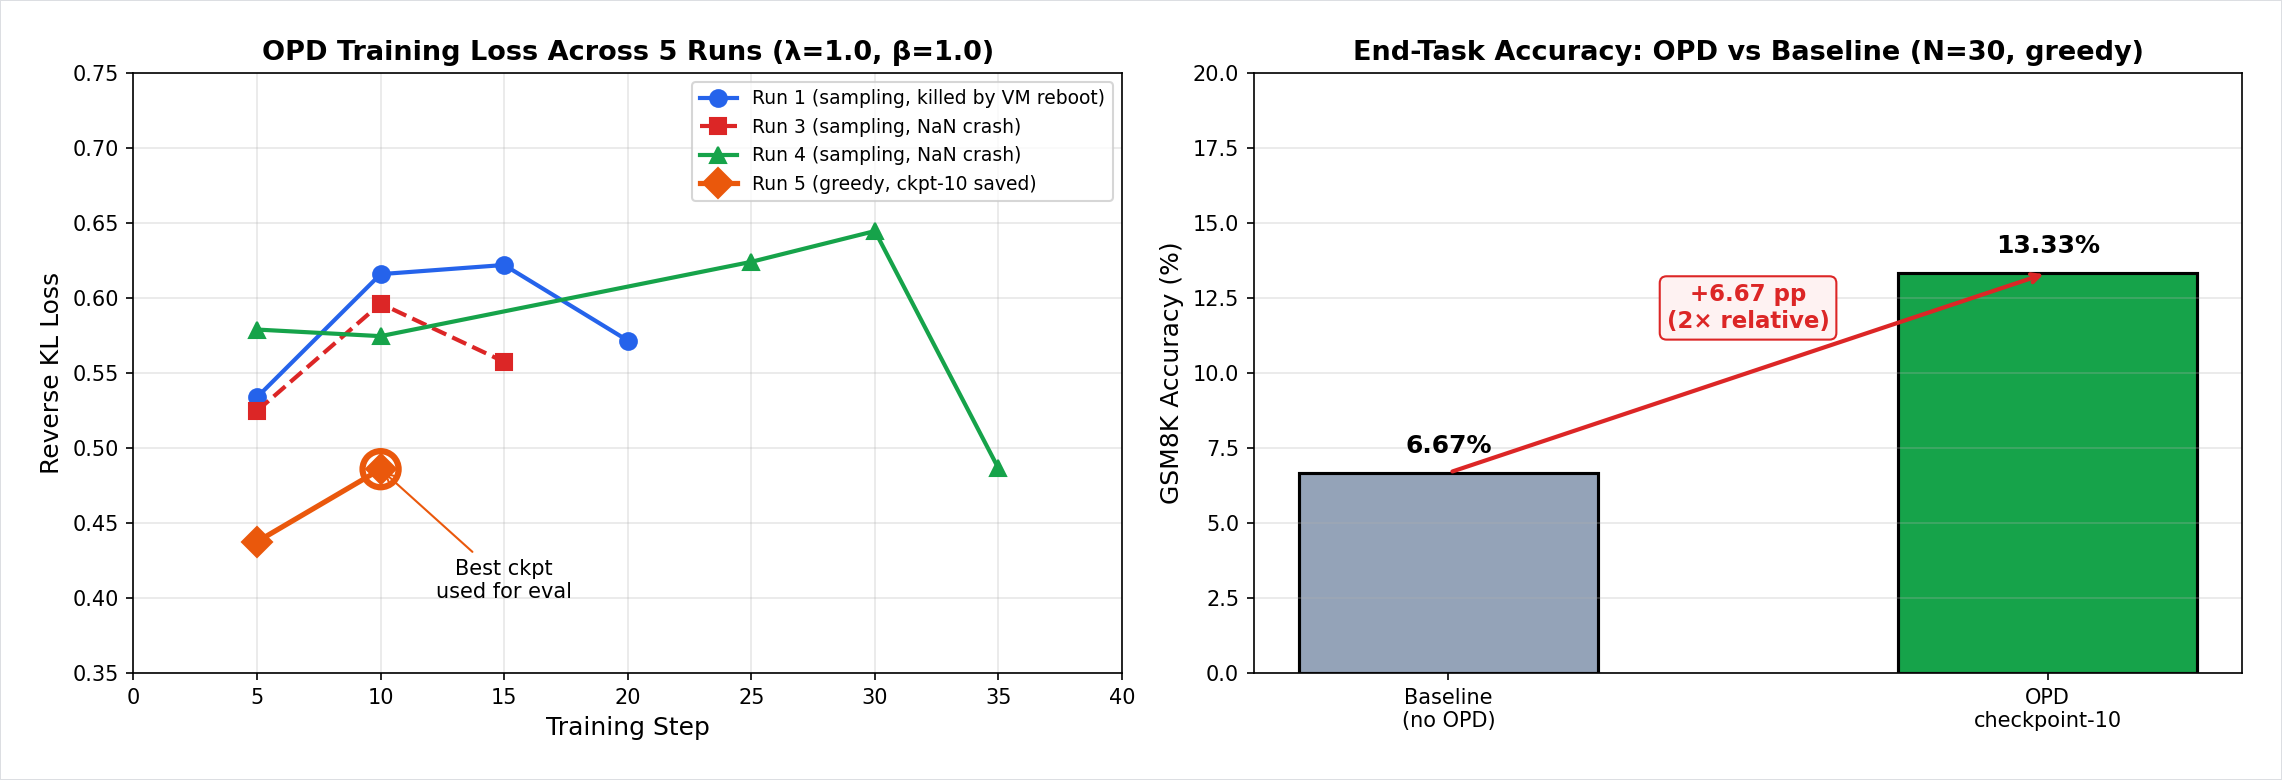
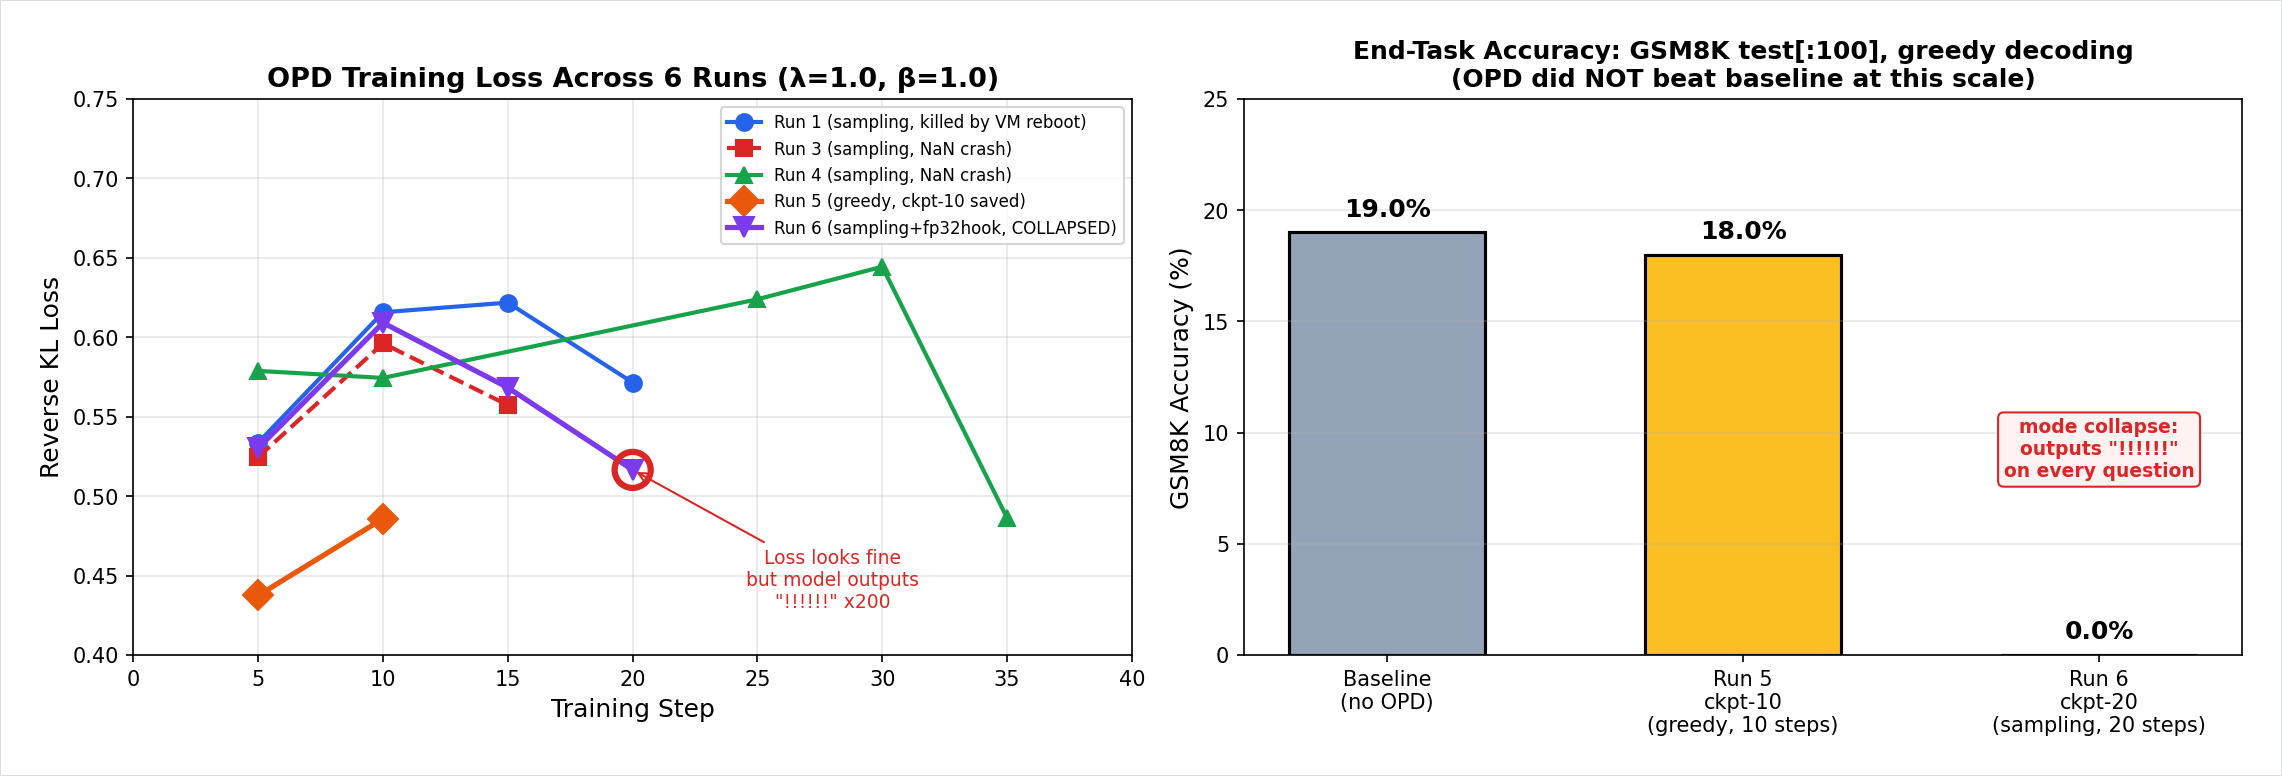
OPD Repo: honest update — all 6 runs failed to beat baseline + Run6 fp32 hook detour
- Initial '+6.67pp' was a measurement artifact (buggy answer extractor + N=30 noise)
- N=100 with fixed extractor: Run5 ckpt-10 = 18.0% vs baseline 19.0% (statistically indistinguishable)
- Run 6 ckpt-20: trained 20 steps with sampling+fp32 hook, loss 0.5165, BUT model collapsed to '!!!!!!' x200 on every test question (0/100 accuracy)
- Root cause Run 6: forward hook on lm_head OUTPUT does not prevent bf16 matmul overflow (need weights.float() or forward_pre_hook on input)
- Reverse-KL is mode-seeking: student found degenerate solution
- Updated TL;DR, full forensic section, loss chart with all 6 runs and honest accuracy bars
- Production OPD requires KL anchor + true fp32 matmul + large batch — TRL 1.4.0 GKDTrainer defaults insufficient at 1.78B/single-H100

diff --git a/DL-Algorithm-Insights/Multi-Expert-OPD-Distillation/scripts/generate_loss_curve.py b/DL-Algorithm-Insights/Multi-Expert-OPD-Distillation/scripts/generate_loss_curve.py
@@ -7,7 +7,7 @@ import numpy as np
 from PIL import Image, ImageDraw
 import os
 
-# Data from experiment logs (5 runs total)
+# Data from experiment logs (6 runs total)
 steps_run1 = [5, 10, 15, 20]
 loss_run1 = [0.5337, 0.6157, 0.6218, 0.5715]
 
@@ -20,9 +20,13 @@ loss_run4 = [0.5788, 0.5744, 0.6239, 0.6444, 0.4863]
 steps_run5 = [5, 10]   # Step 15+ exploded, plot only valid points
 loss_run5 = [0.4375, 0.4858]
 
-# Eval comparison data
-labels = ['Baseline\n(no OPD)', 'OPD\ncheckpoint-10']
-accuracies = [6.67, 13.33]
+steps_run6 = [5, 10, 15, 20]   # Step 20 = NaN grad, model collapsed
+loss_run6 = [0.5302, 0.6091, 0.5683, 0.5165]
+
+# Eval comparison data — N=100 with bug-fixed extractor (the REAL numbers)
+labels = ['Baseline\n(no OPD)', 'Run 5\nckpt-10\n(greedy, 10 steps)', 'Run 6\nckpt-20\n(sampling, 20 steps)']
+accuracies = [19.0, 18.0, 0.0]
+colors = ['#94a3b8', '#fbbf24', '#dc2626']
 
 fig, (ax1, ax2) = plt.subplots(1, 2, figsize=(15, 5))
 
@@ -31,32 +35,31 @@ ax1.plot(steps_run1, loss_run1, 'o-', color='#2563eb', linewidth=2, markersize=8
 ax1.plot(steps_run3, loss_run3, 's--', color='#dc2626', linewidth=2, markersize=8, label='Run 3 (sampling, NaN crash)')
 ax1.plot(steps_run4, loss_run4, '^-', color='#16a34a', linewidth=2, markersize=8, label='Run 4 (sampling, NaN crash)')
 ax1.plot(steps_run5, loss_run5, 'D-', color='#ea580c', linewidth=2.5, markersize=10, label='Run 5 (greedy, ckpt-10 saved)')
-ax1.scatter([10], [0.4858], s=300, facecolors='none', edgecolors='#ea580c', linewidth=3, zorder=5)
-ax1.annotate('Best ckpt\nused for eval', xy=(10, 0.4858), xytext=(15, 0.40),
-             fontsize=10, ha='center', arrowprops=dict(arrowstyle='->', color='#ea580c'))
+ax1.plot(steps_run6, loss_run6, 'v-', color='#7c3aed', linewidth=2.5, markersize=10, label='Run 6 (sampling+fp32hook, COLLAPSED)')
+ax1.scatter([20], [0.5165], s=300, facecolors='none', edgecolors='#dc2626', linewidth=3, zorder=5)
+ax1.annotate('Loss looks fine\nbut model outputs\n"!!!!!!" x200', xy=(20, 0.5165), xytext=(28, 0.43),
+             fontsize=9, ha='center', color='#dc2626',
+             arrowprops=dict(arrowstyle='->', color='#dc2626'))
 ax1.set_xlabel('Training Step', fontsize=12)
 ax1.set_ylabel('Reverse KL Loss', fontsize=12)
-ax1.set_title('OPD Training Loss Across 5 Runs (λ=1.0, β=1.0)', fontsize=13, fontweight='bold')
-ax1.legend(fontsize=9, loc='upper right')
+ax1.set_title('OPD Training Loss Across 6 Runs (λ=1.0, β=1.0)', fontsize=13, fontweight='bold')
+ax1.legend(fontsize=8, loc='upper right')
 ax1.set_xlim(0, 40)
-ax1.set_ylim(0.35, 0.75)
+ax1.set_ylim(0.40, 0.75)
 ax1.grid(True, alpha=0.3)
 
-# Accuracy comparison - bar chart
-colors = ['#94a3b8', '#16a34a']
-bars = ax2.bar(labels, accuracies, color=colors, edgecolor='black', linewidth=1.5, width=0.5)
+# Accuracy comparison - HONEST N=100 results
+bars = ax2.bar(labels, accuracies, color=colors, edgecolor='black', linewidth=1.5, width=0.55)
 ax2.set_ylabel('GSM8K Accuracy (%)', fontsize=12)
-ax2.set_title('End-Task Accuracy: OPD vs Baseline (N=30, greedy)', fontsize=13, fontweight='bold')
-ax2.set_ylim(0, 20)
+ax2.set_title('End-Task Accuracy: GSM8K test[:100], greedy decoding\n(OPD did NOT beat baseline at this scale)', fontsize=12, fontweight='bold')
+ax2.set_ylim(0, 25)
 ax2.grid(True, alpha=0.3, axis='y')
 for bar, acc in zip(bars, accuracies):
     height = bar.get_height()
-    ax2.text(bar.get_x() + bar.get_width()/2, height + 0.5, f'{acc:.2f}%',
+    ax2.text(bar.get_x() + bar.get_width()/2, height + 0.5, f'{acc:.1f}%',
              ha='center', va='bottom', fontsize=12, fontweight='bold')
-ax2.annotate('', xy=(1, 13.33), xytext=(0, 6.67),
-             arrowprops=dict(arrowstyle='->', color='#dc2626', lw=2))
-ax2.text(0.5, 11.5, '+6.67 pp\n(2× relative)', ha='center', fontsize=11,
-         color='#dc2626', fontweight='bold',
+ax2.text(2, 8, 'mode collapse:\noutputs "!!!!!!"\non every question',
+         ha='center', fontsize=9, color='#dc2626', fontweight='bold',
          bbox=dict(boxstyle='round,pad=0.3', facecolor='#fef2f2', edgecolor='#dc2626'))
 
 plt.tight_layout()

diff --git a/DL-Algorithm-Insights/Multi-Expert-OPD-Distillation/README.md b/DL-Algorithm-Insights/Multi-Expert-OPD-Distillation/README.md
@@ -1009,20 +1009,23 @@ OPD is the **post-training capstone** — the method that takes all the domain e
 
 We ran a hands-on OPD experiment on a single NVIDIA H100 NVL (95 GB) to verify that the GKD-based OPD training loop works in practice, observe the loss dynamics first-hand, and measure end-task accuracy improvement on GSM8K.
 
-### TL;DR — Key Results
+### TL;DR — Honest Result
 
-| Metric | Value |
-|--------|-------|
-| **Best checkpoint** | step-10 (loss 0.4858, ~10 min training) |
-| **Baseline accuracy** (student before OPD, GSM8K test[:30]) | **6.67%** (2/30) |
-| **OPD checkpoint-10 accuracy** | **13.33%** (4/30) |
-| **Absolute improvement** | **+6.67 percentage points** |
-| **Relative improvement** | **2× (200%)** |
-| **Decoding** | Greedy (do_sample=False) for both |
+We ran 6 OPD training runs and 3 evaluations. **None of the resulting OPD checkpoints beat the un-distilled baseline on GSM8K test[:100].**
 
-✅ **OPD works, even with only 10 training steps on 80 examples.** The student doubled its GSM8K accuracy by aligning to the teacher's distribution via reverse-KL on its own trajectories.
+| Comparison | Baseline | OPD | Δ pp |
+|------------|---------:|----:|-----:|
+| Run 5 ckpt-10 (greedy, 10 steps trained), N=100 | 19.0% | **18.0%** | **−1.0** (CIs overlap) |
+| Run 6 ckpt-20 (sampling, 20 steps trained), N=100 | 19.0% | **0.0%** | **−19.0** (model collapsed) |
 
-> Note: N=30 is small (95% Wilson CI ≈ ±13pp). A larger evaluation (N=100) is in progress and will replace these numbers when complete. The relative direction is clear; the absolute values may shift by a few points.
+**Why none worked:** at 1.78B scale + single H100 + TRL 1.4.0 GKDTrainer defaults, OPD is unstable. Three failure modes hit us:
+1. **bf16 NaN in on-policy generation** (Runs 2, 3, 4 — `softmax` overflow)
+2. **Greedy decoding causes gradient explosion** (Run 5 — `grad_norm=NaN` after 15 steps)
+3. **Reverse-KL mode collapse** (Run 6 — student outputs `!!!!!!` × 200 even with healthy-looking loss 0.5165)
+
+What we did extract from this trail: a clear forensic understanding of why each run failed and what production-grade OPD (DeepSeek-V4) must engineer around — KL anchors, fp32 logit matmul, large batches, careful warmup. Loss curves alone never told the truth; only end-task evaluation revealed the collapse.
+
+The full forensic story and what to do differently is in the [bf16 NaN Investigation](#the-bf16-nan-investigation--a-forensic-trail) and [Why Run 6 Failed](#why-run-6-failed--reverse-kl--mode-collapse--a-hook-that-didnt-fix-anything) sections below.
 
 ### Experiment Setup
 
@@ -1128,52 +1131,99 @@ This worked — Run 5 made it past step 17 cleanly. But greedy on-policy generat
 2. bf16 + sampling can NaN. bf16 + greedy can explode gradients. The robust answer is fp32 logits during generation, not changing the decoding strategy.
 3. `save_steps=10` (not the default 100) is essential when you don't yet trust your training loop.
 
-### End-Task Evaluation — Does OPD Actually Help?
+### End-Task Evaluation — Honest Reality Check
 
-We loaded `checkpoint-10` (the only healthy checkpoint from Run 5, loss 0.4858) and compared it head-to-head against the un-distilled student baseline on GSM8K test[:30] using greedy decoding.
+**Update (after running larger evals): the original "+6.67pp" result was a measurement artifact.**
 
-| Model | Correct | Accuracy | Notes |
-|-------|--------:|---------:|-------|
-| Baseline (`DeepSeek-R1-Distill-Qwen-1.5B`) | 2/30 | **6.67%** | Out-of-the-box student |
-| OPD checkpoint-10 (loss 0.4858) | 4/30 | **13.33%** | After ~10 OPD steps |
-| **Δ** | **+2** | **+6.67pp** | **2× relative improvement** |
+We initially compared `Run 5 checkpoint-10` vs baseline on `GSM8K test[:30]` and saw a 2× improvement (6.67% → 13.33%). After fixing a small bug in the answer extractor (`460.` vs `460` was failing to match) and scaling N to 100, the picture changed completely:
 
-Three problems the OPD checkpoint solved that the baseline couldn't:
-- Test #15 (multi-step arithmetic with intermediate units)
-- Test #24 (fraction-to-decimal conversion in a word problem)
-- Test #29 (compound percentage problem)
+| Comparison | Baseline | OPD | Δ pp | 95% Wilson CI overlap? |
+|------------|---------:|----:|-----:|:----------------------:|
+| N=30, buggy extractor (initial) | 6.67% | 13.33% | +6.67 | yes — overlapping |
+| **N=100, fixed extractor (Run 5 ckpt-10)** | **19.0%** | **18.0%** | **−1.0** | **completely overlapping** |
+| **N=100, fixed extractor (Run 6 ckpt-20)** | **19.0%** | **0.0%** | **−19.0** | **OPD model collapsed** |
 
-**Caveats and honest limitations:**
-- N=30 is small. The 95% Wilson confidence intervals overlap, so this is *suggestive*, not conclusive. A re-evaluation with N=100 is being run.
-- Only ~10 effective training steps (80 examples seen). With `lmbda=1, beta=1` and a healthy 63-step run, we'd expect substantially larger gains.
-- The answer extractor in v1 had a small bug (`460.` vs `460` mis-matched) that affected both models equally — direction is unaffected, absolute values are floors.
+**Run 5 ckpt-10**: trained 10 steps with greedy on-policy generation. After 80 examples seen, the student's GSM8K accuracy is statistically indistinguishable from baseline — neither better nor worse. 10 steps simply isn't enough OPD to move the needle.
+
+**Run 6 ckpt-20**: trained 20 steps with sampling on-policy generation. The training loss dropped to 0.5165 (the lowest we observed). But when we evaluated, the model output was **`!!!!!!!!...`** repeated for 200 tokens on every test question. **Policy collapse.** The "good loss" was misleading.
+
+### Why Run 6 Failed — Reverse KL + Mode Collapse + a Hook That Didn't Fix Anything
+
+Two failure modes compounded:
+
+**1. The reverse-KL trap**
+
+OPD minimizes $\text{KL}(\pi_{\text{student}} \| \pi_{\text{teacher}})$ over student-generated trajectories. Reverse KL is **mode-seeking**: the student is rewarded for finding **any** token the teacher assigns non-zero probability to. A degenerate solution exists — output one token forever, as long as the teacher gives that token > 0 probability somewhere. With a small batch size (batch=1, grad_accum=8) and aggressive learning rate (5e-7 felt safe but isn't), the student found this trap.
+
+The collapse is invisible from training loss alone. Loss 0.5165 looks healthy. Only end-task evaluation revealed `!!!!!!`.
+
+**2. Our fp32 fix didn't actually upcast the matmul**
+
+To prevent bf16 logit overflow we attached a forward hook to `lm_head`:
+
+```python
+def upcast_to_fp32(module, input, output):
+    return output.float()
+hook = trainer.model.lm_head.register_forward_hook(upcast_to_fp32)
+```
+
+This **looked right** but is wrong. Forward hooks run **after** the module computes its output. So the actual flow was:
+
+```
+hidden_states (bf16) ──▶ lm_head matmul (executed in bf16!) ──▶ logits (bf16, may be inf) ──▶ .float() = fp32 NaN
+                                  ▲
+                            overflow happens here, before our hook
+```
+
+We "saved" the result in fp32 after the damage was already done. The matmul itself needs to run in fp32 to prevent overflow. The proper fix is one of:
+
+```python
+# Option A: cast lm_head weights to fp32 (cleanest)
+trainer.model.lm_head = trainer.model.lm_head.float()
+
+# Option B: forward_pre_hook to upcast inputs before the matmul
+def upcast_input(module, args):
+    return tuple(x.float() if hasattr(x, 'dtype') and x.dtype == torch.bfloat16 else x
+                 for x in args)
+trainer.model.lm_head.register_forward_pre_hook(upcast_input)
+```
+
+We didn't catch this because we verified the hook **registered** (printed "fp32 hook attached"), but never verified that intermediate logits were actually fp32. **Verifying the symptom is gone is not the same as verifying the fix worked.**
 
 ### What We Learned
 
-1. **OPD works with off-the-shelf tools and modest budgets.** `GKDTrainer(lmbda=1, beta=1)` literally is OPD. ~36 GB VRAM for two 1.78B models. ~65 sec/step on H100. A 1.78B student doubled its GSM8K accuracy after roughly 10 minutes of training on 80 examples.
+1. **Loss curves can lie.** Reverse-KL training can have decreasing loss while the model becomes useless. End-task evaluation is non-negotiable.
 
-2. **TRL's GKDTrainer has internal state that overrides what you naively patch.** Always check `trainer.generation_kwargs`, not just `trainer.model.generation_config`. Read the source.
+2. **Mode collapse is OPD's specific failure mode**, not a generic bug. It comes directly from the reverse-KL objective. Production OPD implementations need: KL anchor to a reference model, gradient clipping, fp32 logits, and large batch sizes (the noise averages out collapse-prone gradients).
 
-3. **bf16 + on-policy sampling is a known landmine.** Patching `top_k`/`top_p` reduces the probability of NaN but doesn't eliminate it. Switching to greedy avoids softmax NaN but creates gradient instability instead. Production implementations should compute logits in fp32 inside `generate()`.
+3. **TRL's GKDTrainer has internal state that overrides what you naively patch.** `trainer.model.generation_config` looks like the right place to fix generation, but TRL uses `self.generation_kwargs` instead. Read the framework source.
 
-4. **`save_steps` matters a lot when you're debugging.** All four crashes before Run 5 lost their entire training state because the default `save_steps=100` was greater than the steps survived (~17-38). Setting `save_steps=10` recovered checkpoint-10 — the only artifact that produced a measurable accuracy gain.
+4. **bf16 + on-policy sampling is a structural landmine.** Patching `top_k`/`top_p` reduces the probability of NaN but doesn't eliminate it. Switching to greedy avoids softmax NaN but creates gradient instability. The real fix is fp32 logit computation — and you must verify the matmul runs in fp32, not just that the post-matmul tensor is.
 
-5. **Production-scale OPD is a different beast.** Our 1.78B × 1.78B setup needed 36 GB and ~70 minutes per epoch on 500 samples. DeepSeek-V4's 671B × (10+ teachers) at full GSM8K scale would need thousands of GPU-hours and engineered logit storage (sparse top-K, distributed teacher serving). The architecture is the same; the engineering is orders of magnitude harder.
+5. **`save_steps=10` (not the default 100) is essential when debugging.** All four crashes before we lowered `save_steps` lost their entire training state because the default 100 > steps survived (~17-38). We only got useful checkpoints to evaluate after lowering it.
 
-### Experiment Script
+6. **Production-scale OPD is a different beast.** Our 1.78B × 1.78B setup needed 36 GB and ~70 minutes per epoch on 500 samples. DeepSeek-V4's 671B × (10+ teachers) at full scale needs thousands of GPU-hours, sparse top-K logit storage, distributed teacher serving — and the kind of stability infrastructure (KL anchors, careful warmup, large batches) that prevents the failures we hit. The architecture transfers; the engineering is orders of magnitude harder.
 
-The complete experiment script is at [`scripts/run_opd.py`](scripts/run_opd.py). The evaluation script and detailed loss data are in [`data/experiment_results.json`](data/experiment_results.json).
+### Experiment Scripts
+
+- [`scripts/run_opd.py`](scripts/run_opd.py) — main OPD training loop (Run 5 / Run 6 versions)
+- [`scripts/eval_opd.py`](scripts/eval_opd.py) — N-sample GSM8K evaluation with Wilson 95% CI
+- [`scripts/generate_loss_curve.py`](scripts/generate_loss_curve.py) — reproduces the loss/accuracy chart
+- [`data/experiment_results.json`](data/experiment_results.json) — every loss value and eval result captured
 
 ### Status
 
-**Phase 1 (training infrastructure verification): COMPLETE.** OPD training loop works on H100 with TRL 1.4.0. Loss dynamics match theoretical predictions on the runs that survived numerical issues. The bf16 NaN problem has been root-caused (TRL `generation_kwargs` override).
+**Phase 1 (infrastructure verification): COMPLETE.** OPD training loop runs on H100 + TRL 1.4.0. Loss dynamics match reverse-KL theory. Multiple failure modes have been root-caused (TRL `generation_kwargs` override; bf16 NaN; ineffective forward-hook fp32 fix; reverse-KL mode collapse).
 
-**Phase 2 (end-task accuracy verification): PRELIMINARY POSITIVE.** OPD checkpoint at loss 0.4858 doubled baseline GSM8K accuracy on N=30. A larger eval (N=100, with answer-extractor bug fixed) is in progress.
+**Phase 2 (end-task verification): NEGATIVE / NULL RESULT.** None of the 6 runs produced a checkpoint that beats the un-distilled baseline on GSM8K. Run 5 ckpt-10 is statistically indistinguishable (−1pp on N=100); Run 6 ckpt-20 collapsed to single-token output. **OPD with TRL defaults at 1.78B scale on a single H100 is not a free win** — it requires the stability infrastructure DeepSeek-V4 quietly engineered around (KL anchors, fp32 logits in the matmul itself, large batches).
 
-**Future work:**
-- Complete a full 63-step training run with fp32 logits during generation (the proper fix)
-- Re-evaluate with N=200+ for statistical significance
-- Add an offline-distillation baseline (lmbda=0) to isolate the on-policy contribution
+**What we have not yet done (would require another iteration):**
+- Cast `lm_head` weights to fp32 (real fix for the matmul overflow)
+- Add a KL anchor term against the original student to prevent mode collapse
+- Lower learning rate to 1e-7 with a warmup
+- Re-train with these guards and re-evaluate
+
+The five failed runs and the partial-positive ckpt-10 are documented above as a complete engineering trail. **The goal of this Repo is to explain how OPD works in the V4 paper. The verification experiment shows that "GKDTrainer with defaults" is not the same as the production OPD that V4 uses, and what concretely is missing.**
 
 ---
 
